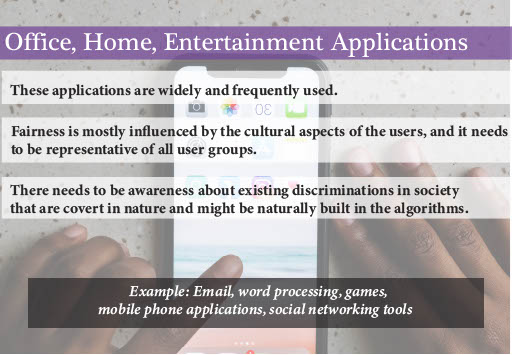
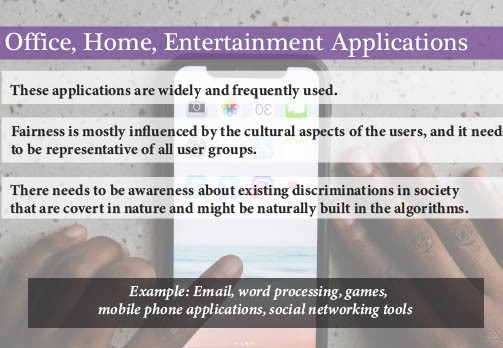
Store stakeholder input into vuex
-crop image size

diff --git a/frontend/src/components/InputStakeholders.vue b/frontend/src/components/InputStakeholders.vue
@@ -11,14 +11,39 @@
                 </v-layout>
 
                 <v-flex row wrap class="justify-start pb-6">
-                    <v-btn color="warning">
-                        Application Scenario
-                    </v-btn>
-                    <v-btn color="warning">
-                        Application Type
-                    </v-btn>
+                    <v-dialog v-model="asdialog" persistent max-width="400px">
+                      <template v-slot:activator="{ on, attrs }">
+                        <v-btn color="warning" dark v-bind="attrs" v-on="on">
+                          Application Scenario
+                        </v-btn>
+                      </template>
+                      <v-card 
+                       class="text-center white--text headline"
+                       min-height="270px"
+                       color="grey"
+                       >
+                          {{appscenario}}
+                      <v-row justify="end" class="ma-0">
+                        <v-btn icon @click="asdialog = false"><v-icon>mdi-close-circle</v-icon></v-btn>
+                      </v-row>
+                      </v-card>
+                    </v-dialog>
 
-                    <v-dialog v-model="dialog" persistent max-width="400px">
+                    <v-dialog v-model="apdialog" persistent max-width="400px">
+                      <template v-slot:activator="{ on, attrs }">
+                        <v-btn color="warning" dark v-bind="attrs" v-on="on">
+                          Application Type
+                        </v-btn>
+                      </template>
+                      <v-img v-bind:src="require('../assets/' + image)" contain max-height="350">
+                      <v-row justify="end" class="ma-0">
+                        <v-btn icon @click="apdialog = false"><v-icon>mdi-close-circle</v-icon></v-btn>
+                      </v-row>
+                       </v-img>
+                    </v-dialog>
+
+
+                    <v-dialog v-model="dsdialog" persistent max-width="400px">
                       <template v-slot:activator="{ on, attrs }">
                         <v-btn color="warning" dark v-bind="attrs" v-on="on">
                           Direct Stakeholder
@@ -26,12 +51,12 @@
                       </template>
                       <v-img src="../assets/direct.jpg" contain max-height="350">
                       <v-row justify="end" class="ma-0">
-                        <v-btn icon @click="dialog = false"><v-icon>mdi-close-circle</v-icon></v-btn>
+                        <v-btn icon @click="dsdialog = false"><v-icon>mdi-close-circle</v-icon></v-btn>
                       </v-row>
                        </v-img>
                     </v-dialog>
 
-                    <v-dialog v-model="dialog" persistent max-width="400px">
+                    <v-dialog v-model="isdialog" persistent max-width="400px">
                       <template v-slot:activator="{ on, attrs }">
                         <v-btn color="warning" dark v-bind="attrs" v-on="on">
                           Indirect Stakeholder
@@ -39,7 +64,7 @@
                       </template>
                       <v-img src="../assets/indirect.jpg" contain max-height="350">
                       <v-row justify="end" class="ma-0">
-                        <v-btn icon @click="dialog = false"><v-icon>mdi-close-circle</v-icon></v-btn>
+                        <v-btn icon @click="isdialog = false"><v-icon>mdi-close-circle</v-icon></v-btn>
                       </v-row>
                        </v-img>
                     </v-dialog>
@@ -56,8 +81,10 @@
                 <v-flex row wrap class="justify-center">
                     <v-img src="../assets/inputstakeholder.jpg" contain max-height="300" max-width="400">
                     <v-row justify="center">
-                    <v-col cols="6">
-                    <v-text-field></v-text-field>
+                    <v-col cols="7">
+                    <v-text-field 
+                     v-model="stakeholder"
+                    />
                     </v-col>
                     </v-row>
                     </v-img>
@@ -73,19 +100,32 @@
 
 <script>
 export default {
+data() {
+    return {
+        apdialog: false,
+        asdialog: false,
+        dsdialog: false,
+        isdialog: false,
+        appscenario: window.$cookies.get("acceptedprojectappscenario"),
+        apptype: window.$cookies.get("acceptedprojectapptype"),
+        stakeholder: ''
+        }
+    },
+computed:{
+    image(){
+        return this.apptype
+    }
+},
 methods:{
     home(){
         this.$router.push({ name: "HomePageOP"});
     },
     randomfairness(){
-        this.$router.push({ name: "RandomFairness"});
+        this.$store
+        .dispatch("updateStakeholder",this.stakeholder)
+        .then(()=>this.$router.push({ name: "RandomFairness"}))
     }
-},
- data() {
-    return {
-        dialog: false,
-        }
-    }
+}
 }
 </script>
 

diff --git a/frontend/src/components/DesDesignProject.vue b/frontend/src/components/DesDesignProject.vue
@@ -10,9 +10,8 @@
                     </v-flex>
                 </v-layout>
 
-                <v-row>
+                <v-flex row wrap>
                     <v-flex xs12 sm6 md6 class="pl-7">
-                        <v-col md="12">
                         <div>
                         <h3>This is your application scenario.</h3>
                         <div class="pl-15 pt-4">
@@ -27,25 +26,16 @@
                           </v-card>
                         </div>
                         </div>
-                        </v-col>
                     </v-flex>
-                    <v-flex xs12 sm6 md6>
-                        <v-col>
+                    <v-flex xs12 sm6 md6 class="pr-7">
                         <div>
                         <h3>This is your application type that can guide you later on.</h3>
-                        <div>
+                        <div class="pt-4">
                         </div>
-                        <v-card 
-                         min-height="400px" 
-                         max-width="600px"
-                         color="grey"
-                         >
-                            <v-img v-bind:src="require('../assets/' + image)" contain max-height="500" max-width="1200"/> 
-                          </v-card>
+                            <v-img v-bind:src="require('../assets/' + image)" contain max-height="400" max-width="1200"/> 
                         </div>
-                        </v-col>
                     </v-flex>
-                </v-row>
+                </v-flex>
 
                 <v-flex class="justify-end pa-2" row wrap>
                     <v-btn color="warning" @click="desstakeholders">Next</v-btn>

diff --git a/frontend/src/store/actions.js b/frontend/src/store/actions.js
@@ -11,4 +11,7 @@ export default {
     resetState({commit}){
         commit('resetState');
     },
+    updateStakeholder({commit},stakeholder){
+        commit('updateStakeholder',stakeholder)
+    }
 }

diff --git a/frontend/src/store/mutations.js b/frontend/src/store/mutations.js
@@ -13,4 +13,7 @@ export default {
         state.members = [];
         state.projects = '';
     },
+    updateStakeholder(state, stakeholder){
+        state.stakeholder=stakeholder
+    }
 }

diff --git a/frontend/src/store/getters.js b/frontend/src/store/getters.js
@@ -8,4 +8,7 @@ export default {
     members(state) {
         return state.members
     },
+    stakeholder(state) {
+        return state.stakeholder
+    }
 }

diff --git a/frontend/src/store/state.js b/frontend/src/store/state.js
@@ -2,4 +2,5 @@ export default {
     apptype:'',
     projects: '',
     members: [],
+    stakeholder: ''
 }
